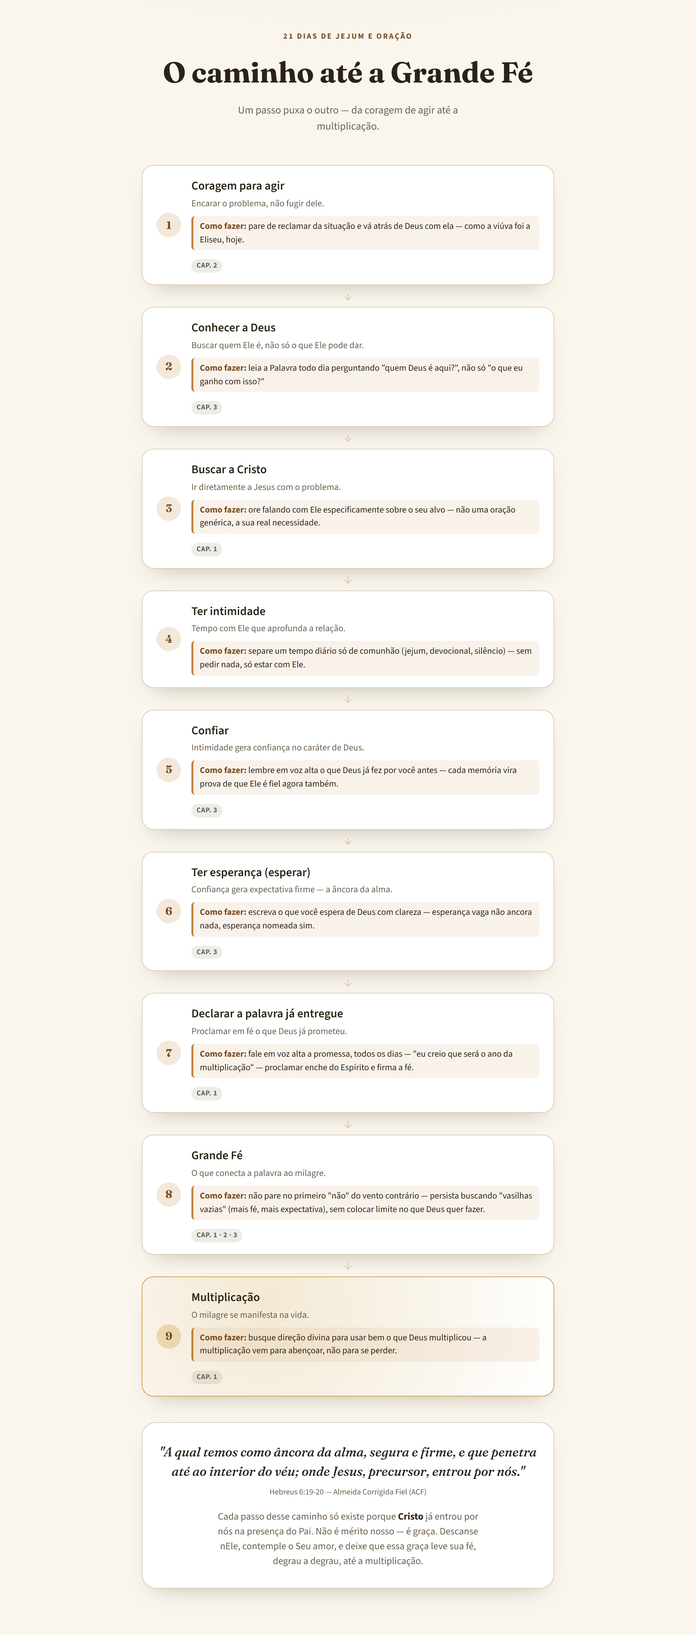
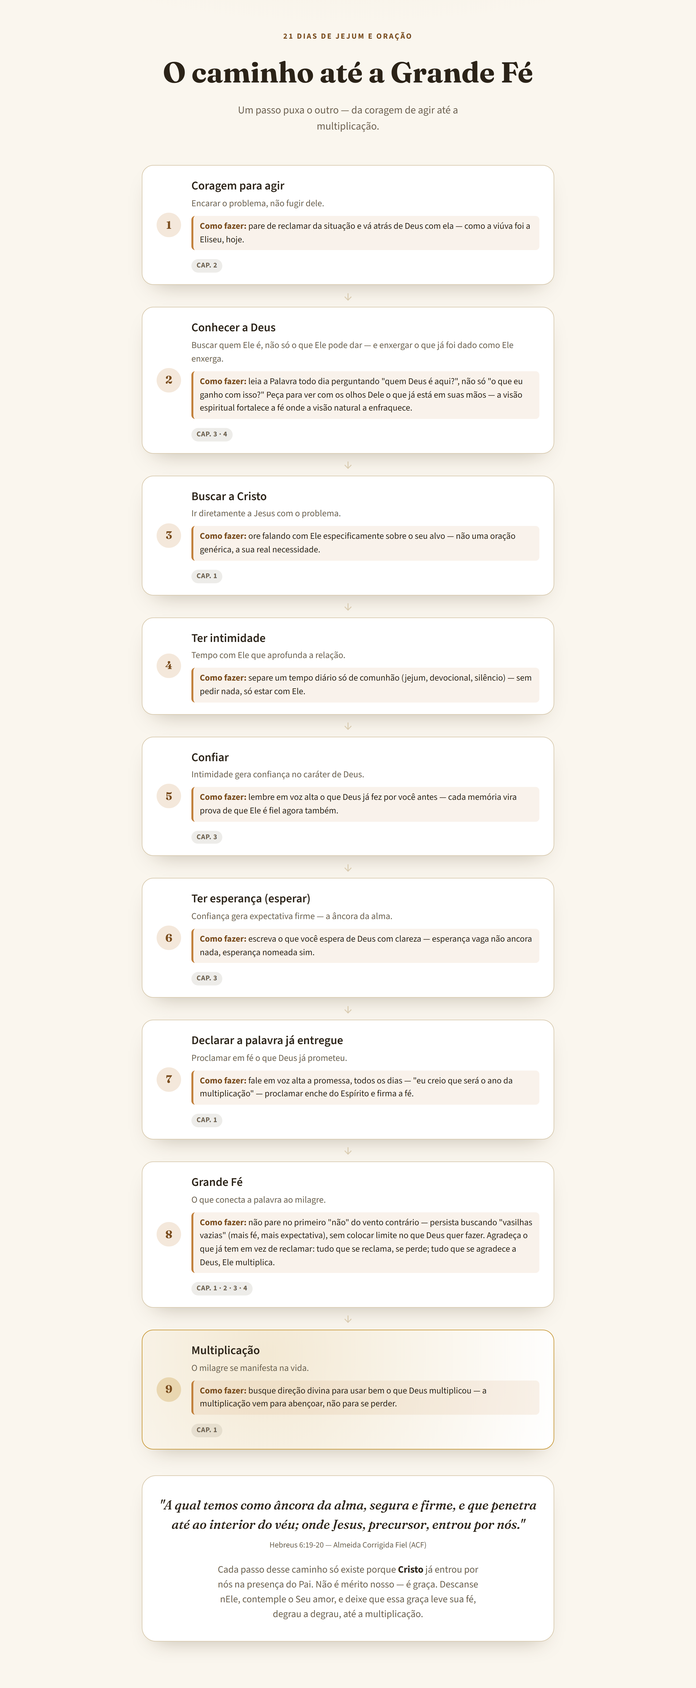
Add Cap.4 - Enxergar a Botija de Azeite como Deus Vê
Processa capítulo 4 da série 21 Dias de Jejum e Oração: markdown com
resumo/conclusão cristocêntrica, esboço de pregação com destaques,
mind-map publicado, jornada-para-multiplicacao.html enriquecida
(passos 2 e 8), e novo capítulo linkado no index.html.

Também habilita transcrição via GPU (CUDA) no faster-whisper com
fallback para CPU, evitando travamentos observados em transcrição
CPU-only.

Claude-Session: https://claude.ai/code/session_01BVykoJbkRVPThpRUJqKNXR

diff --git a/content/mind-map/html/LIVE-21-Dias-de-Jejum-e-Oração-Pr-Wilson-Silva-Cap4-Enxergar-a-Botija-de-Azeite-como-Deus-Vê-1709.html b/content/mind-map/html/LIVE-21-Dias-de-Jejum-e-Oração-Pr-Wilson-Silva-Cap4-Enxergar-a-Botija-de-Azeite-como-Deus-Vê-1709.html
@@ -1,0 +1,238 @@
+<!doctype html>
+<title>Enxergar a Botija de Azeite como Deus Vê</title>
+<style>
+  @import url('https://fonts.googleapis.com/css2?family=Caveat:wght@500;700&family=Nunito:wght@400;600;700;800&display=swap');
+
+  :root{
+    --bg:#ffffff;
+    --ink:#3a332c;
+    --ink-soft:#6b6058;
+    --rose:#f6d3d3;
+    --rose-ink:#8a3f3f;
+    --teal:#c3e7e0;
+    --teal-ink:#2e6b5e;
+    --blue:#cfe1f5;
+    --blue-ink:#2e5580;
+    --gold:#f3d98a;
+    --gold-ink:#8a6a1a;
+    --lav:#e4d6ef;
+    --lav-ink:#5f3d7a;
+    --sand:#f6e7cf;
+    --sand-ink:#8a5a1a;
+    --center:#e8a33d;
+  }
+
+  *{box-sizing:border-box}
+  body{
+    margin:0;
+    background:var(--bg);
+    color:var(--ink);
+    font-family:'Nunito',system-ui,sans-serif;
+    padding-inline:20px;
+    padding-block:36px;
+  }
+
+  .wrap{max-width:1100px;margin:0 auto}
+
+  .kicker{
+    text-align:center;
+    font-size:0.85rem;
+    letter-spacing:.14em;
+    text-transform:uppercase;
+    color:var(--gold-ink);
+    font-weight:800;
+    margin-bottom:6px;
+  }
+
+  h1{
+    font-family:'Caveat',cursive;
+    font-weight:700;
+    text-align:center;
+    font-size:clamp(2.4rem,6vw,4rem);
+    margin:0 0 6px;
+    color:var(--ink);
+    text-wrap:balance;
+  }
+
+  .sub{
+    text-align:center;
+    color:var(--ink-soft);
+    font-size:1rem;
+    margin-bottom:36px;
+  }
+
+  .center-illustration{
+    display:flex;
+    justify-content:center;
+    margin-bottom:28px;
+  }
+  .jar{
+    width:120px;height:120px;border-radius:50%;
+    background:radial-gradient(circle at 35% 30%, #fff2d0, var(--center) 70%);
+    display:flex;align-items:center;justify-content:center;
+    font-size:52px;
+    box-shadow:0 10px 30px -12px rgba(180,120,20,.45);
+    border:3px solid #fff;
+  }
+
+  .grid{
+    display:grid;
+    grid-template-columns:repeat(3,1fr);
+    gap:20px;
+    position:relative;
+  }
+  @media (max-width:760px){
+    .grid{grid-template-columns:1fr}
+  }
+
+  .card{
+    border-radius:26px;
+    padding:22px 22px 20px;
+    position:relative;
+    box-shadow:0 12px 26px -16px rgba(60,40,20,.28);
+    border:2px solid rgba(255,255,255,.7);
+  }
+  .card h3{
+    font-family:'Caveat',cursive;
+    font-size:1.6rem;
+    margin:0 0 8px;
+    font-weight:700;
+  }
+  .card p{
+    margin:0 0 8px;
+    font-size:.92rem;
+    line-height:1.45;
+    color:var(--ink);
+  }
+  .ref{
+    font-size:.8rem;
+    font-style:italic;
+    color:var(--ink-soft);
+    border-top:1px dashed rgba(0,0,0,.15);
+    padding-top:8px;
+    margin-top:10px;
+  }
+  .icon{
+    font-size:1.6rem;
+    display:inline-block;
+    margin-bottom:6px;
+  }
+
+  .c1{background:var(--rose);color:var(--rose-ink)}
+  .c1 h3{color:var(--rose-ink)}
+  .c2{background:var(--teal);color:var(--teal-ink)}
+  .c2 h3{color:var(--teal-ink)}
+  .c3{background:var(--blue);color:var(--blue-ink)}
+  .c3 h3{color:var(--blue-ink)}
+  .c4{background:var(--sand);color:var(--sand-ink)}
+  .c4 h3{color:var(--sand-ink)}
+  .c5{background:var(--lav);color:var(--lav-ink)}
+  .c5 h3{color:var(--lav-ink)}
+  .c6{background:var(--gold);color:var(--gold-ink)}
+  .c6 h3{color:var(--gold-ink)}
+
+  .quote{
+    grid-column:1 / -1;
+    background:linear-gradient(135deg,#fff7e6,#fdeee0);
+    border-radius:26px;
+    padding:26px 30px;
+    text-align:center;
+    border:2px dashed var(--gold-ink);
+    margin-top:4px;
+  }
+  .quote p{
+    font-family:'Caveat',cursive;
+    font-size:clamp(1.5rem,3vw,2.1rem);
+    color:var(--ink);
+    margin:0 0 6px;
+    font-weight:700;
+  }
+  .quote span{
+    font-size:.85rem;
+    color:var(--ink-soft);
+    letter-spacing:.04em;
+  }
+
+  footer{
+    margin-top:40px;
+    text-align:center;
+  }
+  footer .closing{
+    font-family:'Caveat',cursive;
+    font-size:clamp(1.4rem,3vw,1.9rem);
+    color:var(--gold-ink);
+    max-width:640px;
+    margin:0 auto 10px;
+    line-height:1.3;
+    font-weight:700;
+  }
+  footer .keywords{
+    font-size:.8rem;
+    color:var(--ink-soft);
+    letter-spacing:.03em;
+  }
+</style>
+
+<div class="wrap">
+  <div class="kicker">A Escada da Multiplicação · Capítulo 4</div>
+  <h1>Enxergar a Botija de Azeite como Deus Vê</h1>
+  <div class="sub">Pr. Wilson Silva · 17/09 · 2 Reis 4:1-4 (ACF)</div>
+
+  <div class="center-illustration">
+    <div class="jar">👁</div>
+  </div>
+
+  <div class="grid">
+    <div class="card c1">
+      <span class="icon">🏺</span>
+      <h3>O milagre já estava em casa</h3>
+      <p>A viúva quase ignorou o que tinha: respondeu "nada, a não ser uma botija de azeite" — o milagre já estava em suas mãos, ela só não conseguia enxergar.</p>
+      <div class="ref">2 Reis 4:1-2 (ACF)</div>
+    </div>
+
+    <div class="card c2">
+      <span class="icon">👀</span>
+      <h3>Visão natural x visão espiritual</h3>
+      <p>A visão natural, humana, enfraquece a fé. A visão espiritual — enxergar como Deus enxerga — fortalece a fé e não tem limites.</p>
+      <div class="ref">1 Coríntios 13 (ACF)</div>
+    </div>
+
+    <div class="card c3">
+      <span class="icon">🗣</span>
+      <h3>Reclamar faz perder</h3>
+      <p>Tudo que você reclama, você perde. Tudo que você agradece a Deus, Ele multiplica — vale para emprego, casamento, família, célula.</p>
+      <div class="ref">Lucas 6:45 (ACF)</div>
+    </div>
+
+    <div class="card c4">
+      <span class="icon">🍲</span>
+      <h3>O erro de Esaú</h3>
+      <p>Esaú desprezou a primogenitura, dom de Deus, por um prato de lentilhas, e foi chamado profano — nenhum profano tem grande fé.</p>
+      <div class="ref">Gênesis 25:29-34 (ACF)</div>
+    </div>
+
+    <div class="card c5">
+      <span class="icon">👑</span>
+      <h3>Concordar com Deus</h3>
+      <p>Deus chamou Davi de homem segundo o Seu coração; a opinião contrária do irmão mais velho simplesmente desapareceu da história.</p>
+      <div class="ref">1 Samuel 13:14 (ACF)</div>
+    </div>
+
+    <div class="card c6">
+      <span class="icon">🌊</span>
+      <h3>Andar sobre as águas</h3>
+      <p>Pedro só andou sobre as águas quando enxergou Jesus, e não a tempestade. Enxergar como Deus vê é o que sustenta o sobrenatural.</p>
+      <div class="ref">Mateus 14:29 (ACF)</div>
+    </div>
+
+    <div class="quote">
+      <p>"Tua serva não tem coisa nenhuma em casa, senão uma botija de azeite."</p>
+      <span>2 Reis 4:2 — Almeida Corrigida Fiel (ACF)</span>
+    </div>
+  </div>
+
+  <footer>
+    <p class="closing">O que parece pequeno em suas mãos já é a assinatura da graça do Pai — e é olhando para Cristo, autor e consumador da fé, que a botija se multiplica!</p>
+    <p class="keywords">botija de azeite | visão espiritual | gratidão | multiplicação | grande fé | Cristo no centro</p>
+  </footer>
+</div>

diff --git a/content/mind-map/html/jornada-para-multiplicao.html b/content/mind-map/html/jornada-para-multiplicao.html
@@ -204,8 +204,8 @@
 </style>
 </head>
 <body>
-<!-- capítulos processados: LIVE-21-Dias-de-Jejum-e-Oração-Pr-Wilson-Silva-CAP-1-A-Multiplicação-do-Azeite-1409.md, LIVE-21-Dias-de-Jejum-e-Oração-Pr-Wilson-Silva-Cap-02-Coragem-faz-parte-de-uma-Grande-Fé1509.md, LIVE-21-Dias-de-Jejum-e-Oração-Pr-Wilson-Silva-Cap-3-Esperança-o-Alimento-da-Fé-1609.md -->
-<!-- artifact-url: https://claude.ai/artifact/3P1Hz6hyKg9vw44m5pcYgM -->
+<!-- capítulos processados: LIVE-21-Dias-de-Jejum-e-Oração-Pr-Wilson-Silva-CAP-1-A-Multiplicação-do-Azeite-1409.md, LIVE-21-Dias-de-Jejum-e-Oração-Pr-Wilson-Silva-Cap-02-Coragem-faz-parte-de-uma-Grande-Fé1509.md, LIVE-21-Dias-de-Jejum-e-Oração-Pr-Wilson-Silva-Cap-3-Esperança-o-Alimento-da-Fé-1609.md, LIVE-21-Dias-de-Jejum-e-Oração-Pr-Wilson-Silva-Cap4-Enxergar-a-Botija-de-Azeite-como-Deus-Vê-1709.md -->
+<!-- artifact-url: https://claude.ai/artifact/MP5LCPCkeQSmDTm5XGR89E -->
 <div class="wrap">
 
   <header class="hero">
@@ -224,7 +224,7 @@
 
     <div class="step">
       <div class="num">2</div>
-      <div class="txt"><h3>Conhecer a Deus</h3><p>Buscar quem Ele é, não só o que Ele pode dar.</p><p class="how"><strong>Como fazer:</strong> leia a Palavra todo dia perguntando "quem Deus é aqui?", não só "o que eu ganho com isso?"</p><span class="src">Cap. 3</span></div>
+      <div class="txt"><h3>Conhecer a Deus</h3><p>Buscar quem Ele é, não só o que Ele pode dar — e enxergar o que já foi dado como Ele enxerga.</p><p class="how"><strong>Como fazer:</strong> leia a Palavra todo dia perguntando "quem Deus é aqui?", não só "o que eu ganho com isso?" Peça para ver com os olhos Dele o que já está em suas mãos — a visão espiritual fortalece a fé onde a visão natural a enfraquece.</p><span class="src">Cap. 3 · 4</span></div>
     </div>
     <div class="arrow">↓</div>
 
@@ -260,7 +260,7 @@
 
     <div class="step">
       <div class="num">8</div>
-      <div class="txt"><h3>Grande Fé</h3><p>O que conecta a palavra ao milagre.</p><p class="how"><strong>Como fazer:</strong> não pare no primeiro "não" do vento contrário — persista buscando "vasilhas vazias" (mais fé, mais expectativa), sem colocar limite no que Deus quer fazer.</p><span class="src">Cap. 1 · 2 · 3</span></div>
+      <div class="txt"><h3>Grande Fé</h3><p>O que conecta a palavra ao milagre.</p><p class="how"><strong>Como fazer:</strong> não pare no primeiro "não" do vento contrário — persista buscando "vasilhas vazias" (mais fé, mais expectativa), sem colocar limite no que Deus quer fazer. Agradeça o que já tem em vez de reclamar: tudo que se reclama, se perde; tudo que se agradece a Deus, Ele multiplica.</p><span class="src">Cap. 1 · 2 · 3 · 4</span></div>
     </div>
     <div class="arrow">↓</div>
 

diff --git a/index.html b/index.html
@@ -136,6 +136,11 @@
           <div class="copy"><h2>Cap. 3 — Esperança, o Alimento da Fé</h2><p>Mantenha-se firme, mesmo quando a resposta demora.</p></div>
           <span class="access" aria-hidden="true">Acessar <svg viewBox="0 0 10 16"><path d="m2 2 6 6-6 6"/></svg></span>
         </a></li>
+        <li><a class="map-link chapter" href="content/mind-map/html/LIVE-21-Dias-de-Jejum-e-Ora%C3%A7%C3%A3o-Pr-Wilson-Silva-Cap4-Enxergar-a-Botija-de-Azeite-como-Deus-V%C3%AA-1709.html">
+          <span class="thumbnail" aria-hidden="true"><svg viewBox="54 794 165 91" preserveAspectRatio="xMidYMid slice"><image href="assets/design-reference.png" width="1143" height="1052"/></svg></span><span class="number" aria-hidden="true">4</span>
+          <div class="copy"><h2>Cap. 4 — Enxergar a Botija de Azeite como Deus Vê</h2><p>Aprenda a agradecer o que Deus já colocou em suas mãos.</p></div>
+          <span class="access" aria-hidden="true">Acessar <svg viewBox="0 0 10 16"><path d="m2 2 6 6-6 6"/></svg></span>
+        </a></li>
       </ol>
     </nav>
     <figure class="scripture">

diff --git a/youtube_to_md.py b/youtube_to_md.py
@@ -60,7 +60,10 @@ def transcribe_audio(url: str) -> list[dict]:
 
         mp3_path = Path(tmpdir) / "audio.mp3"
         print("Transcribing audio (faster-whisper, this may take a while)...", file=sys.stderr)
-        model = WhisperModel("small", device="cpu", compute_type="int8")
+        try:
+            model = WhisperModel("small", device="cuda", compute_type="float16")
+        except Exception:
+            model = WhisperModel("small", device="cpu", compute_type="int8")
         segments, _info = model.transcribe(str(mp3_path), language=None, vad_filter=True)
         return [{"text": segment.text} for segment in segments]
 

diff --git a/content/youtube/LIVE-21-Dias-de-Jejum-e-Oração-Pr-Wilson-Silva-Cap4-Enxergar-a-Botija-de-Azeite-como-Deus-Vê-1709.md b/content/youtube/LIVE-21-Dias-de-Jejum-e-Oração-Pr-Wilson-Silva-Cap4-Enxergar-a-Botija-de-Azeite-como-Deus-Vê-1709.md
@@ -1,0 +1,16 @@
+# LIVE 21 Dias de Jejum e Oração-Pr. Wilson Silva-Cap.4-Enxergar a Botija de Azeite como Deus Vê-17/09
+
+- **URL:** https://www.youtube.com/watch?v=aDqIQE8iZ_w
+- **Channel:** PWSilvaOficial
+
+## Resumo
+
+Quarto capítulo da série "A Escada da Multiplicação", a partir de 2 Reis 4:1-4 (a viúva e a botija de azeite). O Pr. Wilson Silva ensina que, além de coragem e esperança (capítulos anteriores), a grande fé precisa de um terceiro ingrediente: enxergar como Deus vê. A viúva tinha uma botija de azeite em casa, mas não via valor nela até o profeta Eliseu revelar que ali estava seu livramento — a visão natural, humana, enfraquece a fé, enquanto a visão espiritual a fortalece. O pregador ensina um princípio central: tudo que reclamamos, perdemos; tudo que agradecemos a Deus, se multiplica — como aconteceu com Esaú, que desprezou a primogenitura (dom de Deus) e foi chamado de profano. Convida os ouvintes a identificar o que Deus já colocou em suas mãos (emprego, família, célula, recursos) e agradecer por isso, em vez de reclamar, enxergando essas coisas como instrumentos de multiplicação que Deus já preparou.
+
+## Texto completo
+
+Aqui, começando a nossa devocional, é um tempo ouviu a palavra de Deus, é um tempo para orarmos pelos nossos alvos, abençoarmos pessoas e principalmente se encher do Espírito Santo de Deus, e você sabe que encher-se do Espírito Santo é muito simples, é simples para que todos possam se encher, você sabe por que é que nós nos enchermos do Espírito Santo, para Deus nos conduzir, o Espírito Santo sempre nos conduzir dentro do propósito e nos transformar enquanto nós estamos nessa carreira propósita, porque o final de tudo é que você seja como Jesus Cristo, ninguém vai ser como Jesus Cristo se não for transformado pelo Espírito Santo de Deus, então encher-se e como a gente se enche falando, então fale em nome de Jesus, abra sua boca e fale, escreva aí, coloca algo da parte de Deus que quando você fala as coisas de Deus, quando você fala dos princípios da palavra de Deus, quando você fala do que Deus é quando você adora, quando você louva a Deus, você se enche do Espírito Santo, então coloca uma música, começa a louvar, se inspire e você vai se encher do Espírito Santo, alguma experiência já teve com Deus, com a pessoa ou do Senhor, então Senhor é o meu pastor, isso é uma experiência, quando você creia e fala, você se enche do Espírito Santo, porque a vida cristã é assim, eu creio, eu falo, eu desfruto, então enche-se do Espírito Santo em nome de Jesus, avise as pessoas que você ama, que você se importa, que agora é hora de elas parar, que está fazendo e virem para o devotional, pode ter certeza absoluta que você aqui não perde tempo, você ganha tempo, porque o Espírito vai te conduzir, quem é quem sai consciente pode definir exatamente o que é que você seria a melhor coisa para você fazer hoje, ninguém, mas Deus pode, o Espírito Santo te conduz, então enche-se do Espírito, vale, que que o Senhor é para você, fala aí, à medida que você vai falando, você vai se encher, orar também se enche do Espírito Santo, então vamos orar agora, porque nós precisamos de compreensão, precisamos de revelação, de conhecimento da palavra de Deus, vamos orar? Senhor em nome de Jesus, abra os nossos olhos espirituais, porque nós queremos compreender, queremos ter a revelação, conhecer mais o Senhor, porque sabemos que quanto mais conhecemos, mais desfrutamos, e sabemos que o Senhor tem mais, e nós queremos mais, mais do Senhor, mais da tua presença, mais a revelação, mais dons, mais poder, mais vitória, em nome de Jesus Cristo, amém? Bom, essa semana, a próxima e a outra, nós estamos no nosso jejum, em nome de Jesus, não perco o Espírito do jejum, o que que é o Espírito do jejum? É você estar completamente conectado, conectado ao Senhor, sabendo que são dias de oração, de jejum, de busca, de renovação de mente, orando, insistindo, guerriando pelos nossos ossos, pelas nossas conquistas, esse é o ano da multiplicação, então você vai fazer milagres, e nesse jejum é o tempo da guerra, da preparação para os nossos conquistas, assim que nós terminamos o nosso jejum, amém? E enquanto nós estamos jejuando, nós estamos também renovando a nossa mente, a minha e a sua transformação passa pela renovação da mente, e nós estamos aqui com esse material, a escada da multiplicação, nesses dias nós estamos lendo, meditando e aprendendo sobre o princípio da multiplicação, Deus nos deu uma palavra, e nós vamos conquistar essa palavra em nome de Jesus, você sabe, então nesses dias o que é que nós temos falado? Deixe-me fazer um pequeno resumo aqui do que nós lemos nesses quatro dias que passaram, nós temos uma palavra e nós temos um milagre, que é a palavra se cumprir, entre a palavra e o milagre, o que é que conecta essas duas coisas? A fé, a fé, e tem um inimigo, o vento contrário, o vento contrário, tudo aquilo que se levanta conta a palavra de Deus para que o milagre não aconteça, e eu e você, pela pé, vamos destruir o vento contrário, e aí eu estou aqui pegando um exemplo da mulher viúva, que o marido morreu, que deixou dívidas, os credores viam para levar os espelhos dela como escapas para pagar a dívida, ela foi aonde? Foi em Eliseu, o homem de Deus, aquele que tinha a palavra de Deus, é como se ela tivesse ali, consultando diretamente o Senhor para resolver o seu problema, então ela tinha um problema e ela precisava resolver, e ela foi ali, e o que que nós já aprendemos? Que houve um milagre, porque aquela mulher tinha uma grande fé, e a grande fé daquela mulher, ela foi construída, ela foi edificada, ela foi alicerçada, como vários ingredientes, nós já vimos dois ingredientes dessa, dessa, dessa fé, primeiro foi coragem, depois esperança, isso aumenta sua fé, coragem, esperança, e hoje nós vamos ver o terceiro ponto, que é o quarto capítulo, que é enxergar a botige de azed como Deus vê, amém? Então vamos ler aqui o capítulo, vou ler novamente o texto, lá em segundo reis, capítulo 4, verso 1 a 4, olha o que que a palavra diz, certa mulher das mulheres dos discípulos profetas clamoram eles, eu dizer, meu marido, teu serbo, morreu, e tu sabes que ele temeu o Senhor, é chegado o querido para levar os meus dois filhos para eles serem escravos, eles eu lhe perguntou, o que a gente fazer? Diz-me, o que que é que tens em casa? Ela respondeu, a serba não tem nada em casa, senão a botige de azeite, então disse ele, vai, pede emprestadas vasilhas a todos teus vizinhos, vasilhas vazias, não poucas, então entra e fecha a porta sobre ti e sobre teus feiros, e deita o teu azeite em todas aquelas vazeiras para a parte que estiver cheia, até aí, já vimos que coragem e esperança alimentam poderosamente a nossa fé tornando-a robusta, sólida, e levando-a a se tornar uma grande fé, eu e você queremos uma grande fé, porque não tem limites para quem tem uma grande fé, então vamos edificar, vamos colocar na nossa fé, porque nós temos fé, talvez não pode ser grande, mas temos fé, ela tem que se tornar grande, precisa de novos ingredientes em nome de Jesus, mas ainda precisamos de mais um ingrediente importantíssimo, enxergar como Deus vê, meu Deus, isso aqui é muito importante, eu e você precisamos ter a visão divina, nós precisamos enxergar como Deus enxerga, se nós enxergarmos como Deus enxerga, pode ter certeza, a fé vai aumentar poderosamente, quando a visão natural, natural, aquela humana, aquela que o homem vê, aquela que o diabo insiste para que o homem tenha, enfraquece a fé, e a visão espiritual a fortaleça, quanto mais fortalecida, maior será a nossa fé, e nada pode parar uma grande fé, qualquer multiplicação se estabelecerá diante de uma grande fé, o que é que você está precisando? A grande fé traz existência a qualquer coisa, lendo a história, eu acabei de ler, que fica claro que aquela mulher tinha de uma certa forma, ela tinha ignorado a butige de azeite, porque quando eles eu pergunto o que você tem em casa, por nada, a não ser uma butige de azeite, então não era ignorada completamente, mas ela não cunha muita fé naquela butige de azeite, isso aqui presta atenção nisso, quando ela foi questionada pelo profeta sobre o que tinha em casa, a primeira resposta foi nada, nada, a não ser uma butige de azeite, então a butige de azeite significava pouca coisa para ela, e aqui entra um princípio importante para que a fé cresce e solidifique, mesmo que você não consiga ver com muito importância o que Deus já te deu, sempre apresente isso ou Senhor, como a viúva fez, como estamos no ano da multiplicação, isso significa que algo que você já tem vai se ver de forma milagrosa, então isso aqui é um princípio importante, às vezes eu, você, não enxergamos da forma como Deus enxerga aquilo que ele já deu, aquela mulher já tinha uma butige de azeite, Deus não iria dar, eles já não falou assim, vai buscar uma, acha por aí uma butige de azeite, não, ela já tinha, estava dentro da casa dela, estava dentro do domínio dela, ela já tinha entregue, mas eu preciso enxergar aquelas coisas que Deus coloca nas minhas mãos, como Deus vê, ela não está a enxergar, com certeza não está, porque o milagro estava ali, mas ela não conseguia ver, então eu te pergunto, o que que Deus já te deu, o que que já está na sua mão, o que que já está no seu domínio que você fala, isso aqui Deus me deu, o que que é, é um sâniso, como aquela viúva era uma mulher de Deus, como já vimos, ela não reclamou da butige de azeite, ela tão somente não percebeu que seria ela a provisão divina para levar sua situação, ela não falou, nossa só tem essa butige de azeite, não, ela disse, eu não tenho nada não sei essa butige de azeite, ou seja, ela não reclamou, mas também ela não enxergou como ela enxergava, você fala, Paulo diz que diante de toda tentação, provação ou até mesmo a circunstância difícil, Deus proverá o livramento, está lá em primeiro corrente das 13, então é crucial enxergar a porta do livramento, ou seja, a saída daquele contexto diverso, aquela mulher não conseguia ver essa porta, mas não duvidou quando o profeta diz que a porta do livramento seria por meio da butige de azeite, então olha, Paulo diz seguir, você quer uma situação completamente, e Paulo disse lá em primeiro corrente, ele fala o seguinte, olha, Deus não permite que você, que eu, sejamos tentados além das nossas surdas, mas quando ele aceita, ele põe junto com a tentação que vem do diabo, um livramento, o livramento é a porta de saída da circunstância diverso, o livramento é a porta do milagre, é, então eu e você não temos que ver o que está difícil, então precisamos enxergar o livramento, no caso da mulher o livramento do contexto diverso que ela estava passando, era justamente aquela butige de azeite, ela não viu, ela foi lá no profeta para ele abrir os olhos dela sobre isso, era uma revelação que Deus estava dando, fala olha, você está com um problema, né, a solução está aí, você só precisa enxergar, você só precisa crer, você só precisa ver como Deus vê, é o que o profeta fez com ela, que é o que Paulo ensinou para nós, aqui podemos clarear um princípio muito, mas muito importante mesmo no reino de Deus, presta atenção nisso em nome de Jesus Cristo, o que eu vou te falar agora, tudo que você reclama, você perde, e tudo que você apresenta de Deus agradecendo, ele multiplica, nós temos inúmeros exemplos disso, isso aqui é só um, então se você tem algo, se Deus colocou na sua mão algo, nunca reclame, porque você vai perder aquilo, qualquer coisa que você reclama, você vai perder, se você reclama do seu cônjus, você vai perdê-lo, você pode não perder, a separação vai ser perto, o amor, o prazer, a alegria, a satisfação com ele, se você reclama do seu cônjus, você perde, você perde, é como eu, se você agradece a Deus pelo seu emprego, se você reclama da sua empresa, você vai acabar perdendo essa empresa, se você reclama da sua célula, pode ter certeza essa célula vai fechar, porque tudo aquilo que você reclama, você perde, mas tudo aquilo que você agradece a Deus, multiplica, se você agradecer a Deus pelo seu emprego, pode ter certeza, você vai prosperar ali, se você agradecer a Deus pela sua empresa, pode ter certeza, ela cresce, se você agradecer a Deus pelo seu cônjus, pode ter o seu casamento vai ser melhor. Se você agradece a Deus o Senhor do Seu Senhor, pode ter certeza de que sua família vai ser unida. Se você agradece a Deus pela cela que você tem, ela cresce e multiplica. Isso é um princípio espiritual, em nome de Jesus aprendi isso. Abraça isso. Eu imagino que ao sair da presença do profeta, aquela mulher agradeceu muito a Deus pelo abutismo de azeite. Afinal, aquela seria o seu livramento. Ainda que antes ela não conseguisse enxergar isso. Quando eu vejo certas expressões na boca dos filhos de Deus como, você já viu pessoas que acabam de receber um salário e fazer essa miséria de salário? Eu estou reclamando daquilo que Deus deu para ele. Esse, você já viu aquela outra coisa, estropício de marido. Está lá no modo marido. Essas pessoas sem compromisso, quando uma vez um líder está falando dos tempos da sua célula, que dia terrível, por aí vai. Fico com compaixão por elas, pois perderão tudo o que estão reclamando. Esse tipo de fala representa a fé que a pessoa tem, ou seja, nenhuma. Ela não tem fé nenhuma. E como que eu vou viver sem que a Bíblia diz que o justo vire por pé? Quando você reclama, quando você fala mal, quando você está destruindo com a sua boca, que Deus deu, ainda que seja um pouco, isso é falta de fé, completa a falta de fé. Esse tipo, bom, nenhuma, a palavra de Deus diz. Está escrito lá em Segundo Corrêntico 13. Eu crie, por isso, falei. Então, quando você crie, que é coisa ruim, você fala, você vai perder aquilo. Quando você crie, que é aquilo de Bíblia, aquilo de Deus, e você fala, isso por nós pera. A boca fala do que está cheio o coração. Lúquia 6, 45. Quando as palavras não correspondem ao que Deus diz, isso significa que não é alinhamento, ele é daquela pessoa e o Senhor. Assim não pode existir fé alguma na vida daquela pessoa, pois Jesus é o autor, o consumador da pé, meu Deus do céu. Eu não sei se você lembra da história. Deus virou para Davi e falou, esse é um homem segundo o meu coração. Então, assim como Deus via Davi. O irmão mais velho de Davi olhou para Davi e falou, eu conheço a tua maldade. Então, veja, Deus está falando que Davi é o homem segundo o coração dele. O irmão está falando que Davi era um cara maldoso, Deus não é maldoso. Ou seja, a opinião do irmão mais velho de Davi era completamente diferente da opinião de Deus. O que que aconteceu depois que o irmão mais velho falou isso sobre Davi? Sumiu, nunca mais falou sobre ele na Bíblia. Por que? A opinião dele é diferente de Deus. Então, preste atenção que eu vou te falar. Não tem uma opinião diferente da de Deus. Se Deus está falando que algo na Sua vida é benção, é benção. Se Deus está falando que esse é o seu cônus, então é benção! Se está falando que isso são os seus filhos, é benção! Se está falando que essa é a sua profissão, é benção! Se está falando que essa é sua empresa, é benção! Se está falando que essa é a sua acela, é benção! Deus diz que é, então concorda com Deus em nome de Jesus, tem misericórdia, as palavras que saem da nossa boca podem alimentar a nossa fé ou destruí-la. As ruas suas são completamente ligadas umas a outras. Quando começa a falar o que Deus fala, a minha fé cresce e cada vez ela cresce. Mais palavras afirmativas e positivas alinhadas à palavra de Deus, sai da minha boca. É um ciclo virtuoso. Eu falo algo, eu agradeço algo que Deus me deu. Aquilo cresce, eu falo mais ainda e cresce. Vir um ciclo virtuoso, porque quanto mais eu estou abrindo a boca e me alinhado com o que Deus diz, eu não estou aqui falando de palavras positivas sem ele nem beira, estou falando de palavras afirmativas daquilo que Deus já diz. Deus diz você está concordando. Pronto, isso vira um ciclo virtuoso de crescimento da sua vida. Em nome de Jesus, isso é muito importante, meu Deus do céu. Reclamar é um ótimo caminho para quem quer perder o que já tem. Isso significa que não adianta querer mais, pois vai perder até o que já tem. Se aquela mulher chegar se reclamando da botigia de azeite, pode ter certeza de que até a botigia ela perderia, mas graças a Deus ela não fez isso. Isso é uma mulher de Deus. Nós precisamos aprender com ela. Você se lembra da história de Zaú? Por ter nascido primeiro, recebeu o direito, a prima genitura, que é dado por Deus. Esse direito, concedido por Deus, era muitíssimo valorizado e considerado por todos. Afinal, ele ficaria parte da herança, seria o líder após seu pai e o nome da família seria perpetuado por meio dele. No entanto, esse Zaú desprezou esse direito, que seria uma besta por toda a vida dele nessa terra, por um prato de lentilhas, que o saciaria em um só momento. A palavra de Deus ao falar sobre essa escolha, o chamou de profano, por tê-la feito. Quando pegamos algo que Deus deu e o pesamos, isso é visto como profano nos céus. É evidente que nenhum profano terá grande fé. Você entende? A Bíblia chama de Zaú de profano, porque ele desprezou algo que foi dado por Deus e nenhum profano vai ter grande fé e nenhum profano vai ser vencedor. Nenhum profano vai ter desfrutado as coisas de Deus. Eu faço uma devoção na segunda, sexta-feira. Todos os dias, sete horas da manhã. Nessa devoção aqui, se você está desde o início, eu sempre começo com uma oração. E todos os dias no início do dia, a minha oração é para que eu possa compreender a poderosa, doce, nova vida que o Senhor nos deu. Eu sempre peço que eu queira pensar o que Deus pensa, sentir o que Ele sente, desejar o que Ele deseja, além de me posicionar como Ele se posiciona. E eu sempre explico o motivo da sua oração. E ela é simples. Eu quero enxergar a vida como Deus enxerga. Pois só assim terei condições de fazer as escolhas que Ele faz. E se eu fizer as escolhas que Deus faz, eu sei como Ele é. Tudo o que o Senhor nos dá é um propósito. Só precisamos ver como Ele vê para tomar posse desse propósito. Ver a botigia de aceite como Deus vê aumenta enormemente a sua fé. Então meu propósito, para Deus, sempre é. Se você me acompanhar na live, na devoção anal, se não acompanha, deveria acompanhar. Porque tem muitas pessoas aqui que estão aqui por só, no caso do jejum, eu queria você todos os dias. Então veja, eu quero ver como Deus vê. Eu quero pensar como Deus pensa. Eu quero sentir o que Deus sente. Eu quero desejar o que Deus deseja. Eu quero escolher o que Deus escolhe. Eu quero me posicionar como Deus se posiciona. Porque assim eu serei como Ele. Então enxergar como Deus enxerga é o alicerce do êxito da sua vida. Aquela mulher não conseguia enxergar o botigio de aceite. Mas também não reclamou dela. Mas depois que Ele se upalou, agora ela está enxergando. Agora ela está olhando. Ela entendeu. Isso que Deus me deu é uma porta. É um libramento. É o caminho. É um instrumento que Deus vai me abençoar. E eu te pergunto, o que que Deus colocou na sua mão? Tudo que o Senhor nos dá tem um propósito. Só precisamos ver como Ele vê para tomar posto desse propósito. Ver a botigia de aceite como Deus vê aumentará enormemente a sua fé. O que você tem em casa, na sua vida, na sua empresa ou no seu trabalho que foi dado por Deus? Muito provavelmente isso será o caminho da sua multiplicação. Você crê nisso? Glórias a Deus. Vamos ver como Deus vê e tomar posto da multiplicação. Vencem a visão natural pela visão espiritual é vencer o vento contrário. O vento contrário, Ele fica tentando colocar em você a visão natural. Você entende? Mas eu e você precisam ter uma visão espiritual. Eu e você não somos mais naturais. Nós somos agora seres espirituais. Nós vivemos no sobrenatural. Não é mais no natural. Precisamos enxergar como Deus enxerga. Aí eu te pergunto novamente. Nós estamos no ano da multiplicação. Nós estamos rejuando. E essa semana é para multiplicar algo na sua vida pessoal. Mas eu te pergunto o que é que Deus colocou? Qual é a semente que Ele já colocou? Já colocou? Vou repetir. Já colocou na sua mão. Eu já te deu uma célula. Eu já te deu uma empresa. Eu já te deu um cônjus. Já te deu filhos. Já te deu certos recursos. O que que Deus te deu? Que você não está valorizando como Deus valoriza. Ora. Ora. Eu quero agora com você. Para que você enxergue. Para que você enxergue. Você come essa mulher. Essa mulher viúva enxergou. Ela não via. Estava lá. Não via. Mas a partir da palavra de Eliseu ela enxergou e creu. E creu. Então em nome de Jesus Cristo o que é que você já tem na sua casa? No seu domínio? De baile da sua autoridade? Que vai ser a multiplicação? Vai ser um instrumento para te abinçoar? E o milagre que aconteceu na sua casa? O que que é? Eu quero agora com você agora. Enquanto eu ora. Você fecha os seus olhos que Deus vai te falar agora. Deus vai te falar agora. O que ele já pôs na sua mão? Que a partir daí vai ser o milagre. Vai te falar isso agora. Então se prepare para ouvir algo de Deus enquanto eu ora para você. Fecha os seus olhos. Senhor em nome de Jesus Cristo. Oh Deus bendito. Abra os olhos do meu irmão para ver a botija de azeite. Um instrumento da multiplicação. Um instrumento da benção. Oh Deus, em nome de Jesus Cristo. Oh Deus bendito. Abra esses olhos que bem a revelação, que bem a compreensão. Agora, agora, agora. Na vida do meu irmão, na vida do meu irmão, em nome de Jesus Cristo. Em nome de Jesus. Quando eu e você enxergamos pelo lado espiritual e não natural que é enxergar, como Deus enxerga, você anda sobre as águas. Veja que Pedro olhou para Jesus vindo sobre as águas e ele não reconheceu o que era o Senhor. Quando Jesus falou, sou eu, então fala para eu ir junto. E eu falei, vem, venceu do barco. Então em nome de Jesus, venceu do barco e ande sobre a tempestade. Por quê? Porque Deus já te abençoou. Você só precisa enxergar Jesus como Jesus. Jesus não é uma fantasia. Jesus é real. E ele já te abençoou. Então abraça isso, porque é aí que o milagre vai acontecer. Você crê nisso? Escreva aí, eu creio, eu recebo a revelação. Se você não recebe essa revelação agora, instantaneamente, você vai recebê-la hoje. Agora, meio dia, o seu pastor, aí do seu preto, está orando com você meio dia. Se ainda não recebeu, então, óre que Deus vai mostrar. E se já recebeu, óre que Deus vai confirmar. À noite, está lá na céu, se até à noite, você ainda não tiver certeza, vai lá, os irmãos vão impor as mãos e isso vai falar com você. É simples assim. Você vai celebrar diante de Deus e o milagre vai acontecer. Essa semana, esse milagre vai acontecer a multiplicação pra você, na sua vida, de uma necessidade sua. Você entende isso? Você crê. Coloca aí, eu criei. Eu criei. E se você já recebeu a parte de Deus, a clareza do que é a butija de azeite, fala aí, já recebi, já sei o livramento, já sei a porta que eu tenho que entrar, já sei qual é a butija de azeite na minha vida. Fala isso, escreve aí. Enquanto eu orpo você, e abençoe você. Senhor, em nome de Jesus, ó Deus, mentira, eu quero guardar, proteger a vida da minha irmã, a vida do meu irmão, de toda a vida natural e liberar a visão do Senhor, a compreensão, a visão espiritual, liberar a senhora, a butija de azeite, pra que haja Senhor Vitória, pra que haja Conqueça, pra que haja Desfruto, pra que haja multiplicação, Senhor, como o Senhor já liberou pra nós em nome de Jesus, mas que haja o Enxergar. Eu te abençoe, meu irmão, eu te abençoe, meu irmão, quero multiplicar as missões de hoje na sua vida em nome de Jesus Cristo. Você crê, assim será, dezenove horas a minha esposa tá ensinando as suas crianças, isso que eu tô te ensinando. Em nome de Jesus, põe suas crianças pra aprender. Às vinte horas, ou dependendo do horário da sua terra, eu não dá cera, meia oração com seu pastor. Não perca o Espírito de Jejún. Não perca. Amanhã, sete minutos aqui com você novamente. Amém? Tiago Ar, que estamos encerrados em nome de Jesus Cristo. O Teixe de Azeite que Deus colocou na minha vida. Amém? Aí é o milagre. Isso é só pra essa personagem, pra você também.
+
+## Conclusão
+
+No fim, a botija de azeite não era pouca coisa — era a própria provisão de Deus, esperando ser enxergada com os olhos da fé. E é assim que o Pai trata cada um de nós: Ele não nos manda buscar o milagre longe, Ele já colocou o milagre em nossas mãos, revestido pela graça que vem de Cristo. Tudo o que temos de bom — a salvação, o acesso ao Pai, a certeza do livramento — não veio por mérito nosso, mas pelo sacrifício de Jesus na cruz, recebido pela fé. "Porque pela graça sois salvos, por meio da fé; e isto não vem de vós, é dom de Deus" (Efésios 2:8, ACF). É justamente esse evangelho da graça que nos ensina a agradecer em vez de reclamar: quando contemplamos o quanto Cristo já nos deu de graça, o coração se enche de gratidão, e a gratidão é o solo onde a fé cresce e se multiplica. "Que darei eu ao Senhor, por todos os benefícios que me tem feito?" (Salmos 116:12, ACF). Hoje é dia de olhar para aquilo que parece pequeno em nossas mãos e enxergar ali a assinatura do amor do Pai, que através de Jesus nos garantiu acesso irrestrito à sua presença e às suas promessas. Que este seja o convite: deixe de contar o que falta e comece a contemplar o quanto Cristo já conquistou por você na cruz — porque é olhando para Ele, o autor e consumador da fé (Hebreus 12:2, ACF), que a botija se multiplica e o milagre acontece.

diff --git a/content/outline/LIVE-21-Dias-de-Jejum-e-Oração-Pr-Wilson-Silva-Cap4-Enxergar-a-Botija-de-Azeite-como-Deus-Vê-1709.md b/content/outline/LIVE-21-Dias-de-Jejum-e-Oração-Pr-Wilson-Silva-Cap4-Enxergar-a-Botija-de-Azeite-como-Deus-Vê-1709.md
@@ -1,0 +1,28 @@
+# Esboço: LIVE 21 Dias de Jejum e Oração-Pr. Wilson Silva-Cap.4-Enxergar a Botija de Azeite como Deus Vê-17/09
+
+## Introdução
+Já vimos que a grande fé é alicerçada por coragem e esperança. Hoje, no jejum, um terceiro ingrediente: enxergar como Deus vê. A viúva de 2 Reis 4 tinha o milagre em casa e não sabia — ***a visão natural enfraquece a fé; a visão espiritual a fortalece***.
+
+## Parte 1 — Deus já colocou o milagre na sua mão
+- 2 Reis 4:1-2 (ACF): "E disse-lhe Eliseu: Que te farei? Dize-me que é que tens em casa? E disse ela: Tua serva não tem coisa nenhuma em casa, senão uma botija de azeite."
+- A viúva quase ignorou o que já tinha: respondeu "nada, a não ser uma botija de azeite" — ***o milagre já estava na casa dela, ela só não conseguia ver***.
+- Pergunta prática: o que Deus já colocou nas suas mãos que você ainda não valoriza como Ele valoriza?
+
+## Parte 2 — Reclamar faz perder; agradecer multiplica
+- Gênesis 25:34 (ACF) — Esaú vendeu a primogenitura por um prato de lentilhas e foi chamado profano por desprezar o que Deus lhe dera; ***nenhum profano terá grande fé***.
+- Lucas 6:45 (ACF): "A boca fala do que está cheio o coração."
+- ***Tudo que você reclama, você perde; tudo que você agradece a Deus, Ele multiplica*** — princípio válido para emprego, casamento, família, célula.
+
+## Parte 3 — Concordar com Deus é enxergar como Ele vê
+- 1 Coríntios 10:13 (ACF): "Não veio sobre vós tentação, senão humana; mas fiel é Deus, que não vos deixará tentar acima do que podeis, antes com a tentação dará também o escape, para que a possais suportar."
+- Deus chamou Davi de homem segundo o seu coração; a opinião divergente do irmão mais velho simplesmente desapareceu da história — ***não existe opinião válida diferente da de Deus***.
+- Hebreus 12:2 (ACF): Jesus é o autor e consumador da fé — ***ver como Deus vê é o alicerce da grande fé que multiplica***.
+
+## Conclusão / Chamado à ação
+Feche os olhos e deixe Deus revelar qual é a sua botija de azeite — aquilo que Ele já colocou em sua mão. Pare de reclamar, comece a agradecer, e ***veja a multiplicação acontecer nesta semana***.
+
+## Declaração — Pão
+Participo desta ceia com meus irmãos e como do corpo de Cristo, porque ***enxergo como Deus vê*** e tudo que Ele colocou em minhas mãos se multiplica em alegria!
+
+## Declaração — Vinho
+Participo desta ceia com meus irmãos e bebo do sangue de Cristo, porque ***por Ele tenho acesso ao Pai*** e minha fé já não conhece vento contrário!
